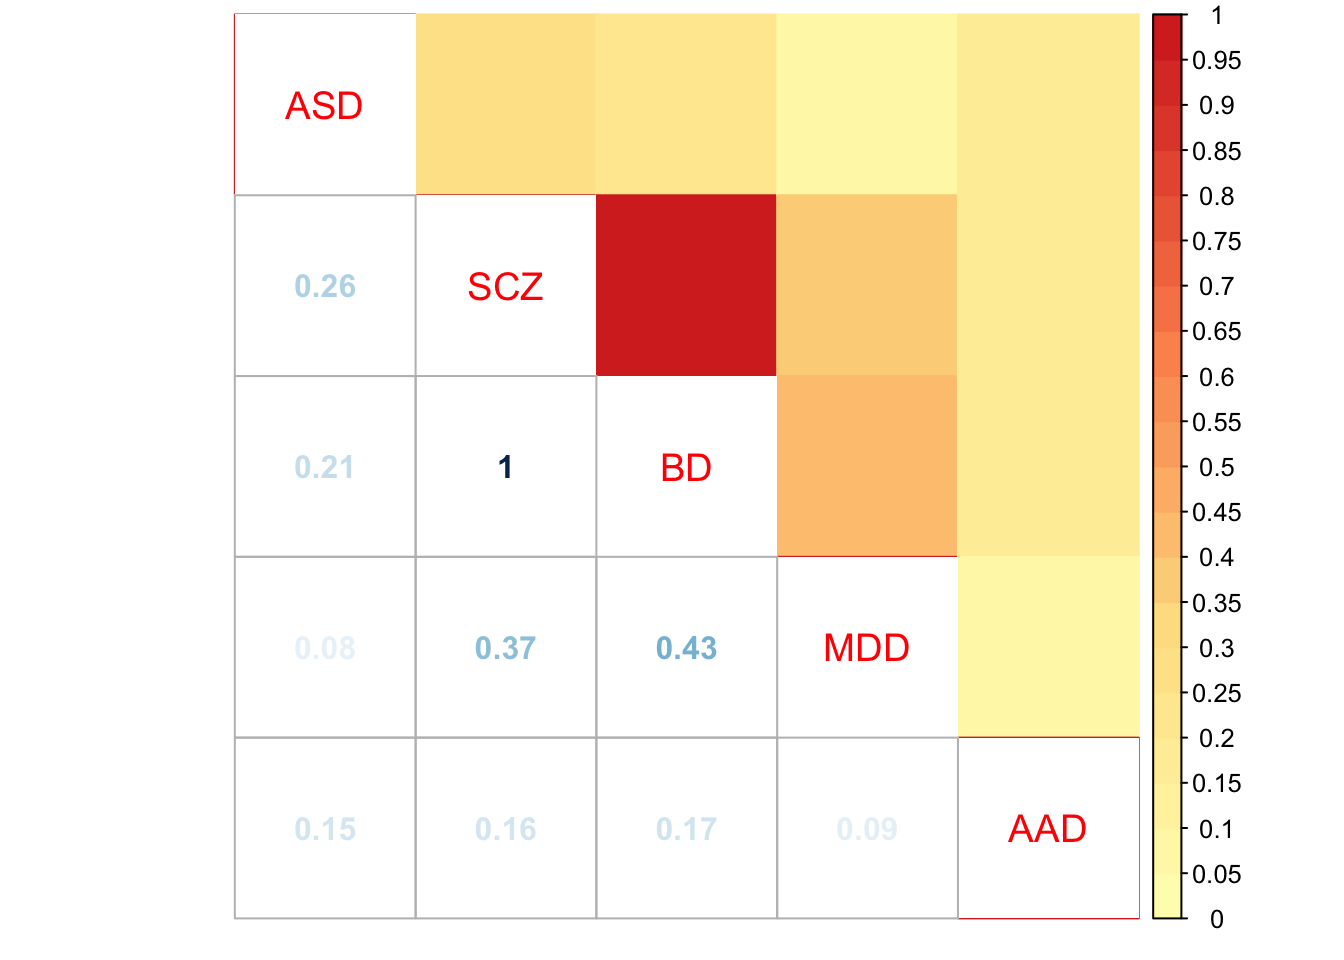
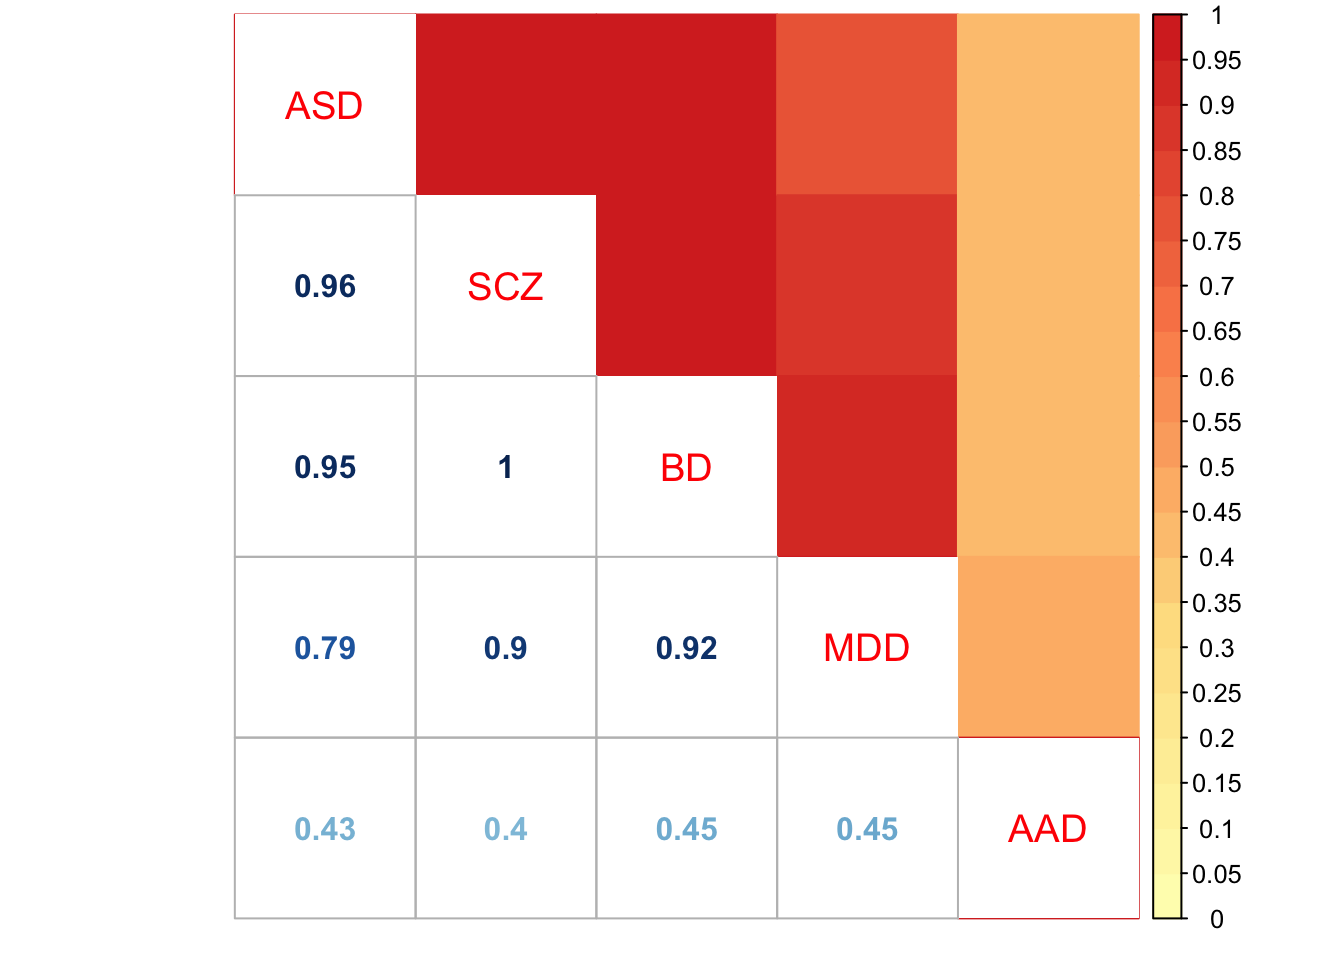
Build site.

diff --git a/docs/MashEE.html b/docs/MashEE.html
@@ -334,7 +334,7 @@ div.section {
 </div>
 
 
-<p><strong>Last updated:</strong> 2018-05-11</p>
+<p><strong>Last updated:</strong> 2018-05-12</p>
 <strong>workflowr checks:</strong> <small>(Click a bullet for more information)</small>
 <ul>
 <li>
@@ -358,7 +358,7 @@ div.section {
 </details>
 </li>
 <li>
-<p><details> <summary> <strong style="color:blue;">✔</strong> <strong>Repository version:</strong> <a href="https://github.com/zouyuxin/mash_Gandal_2018/tree/24354dbc05fcb4f5e53fa934aa0f64aa80014709" target="_blank">24354db</a> </summary></p>
+<p><details> <summary> <strong style="color:blue;">✔</strong> <strong>Repository version:</strong> <a href="https://github.com/zouyuxin/mash_Gandal_2018/tree/4c2def79fa2025d9c0ffde7ff6f7e9808d4a910c" target="_blank">4c2def7</a> </summary></p>
 Great! You are using Git for version control. Tracking code development and connecting the code version to the results is critical for reproducibility. The version displayed above was the version of the Git repository at the time these results were generated. <br><br> Note that you need to be careful to ensure that all relevant files for the analysis have been committed to Git prior to generating the results (you can use <code>wflow_publish</code> or <code>wflow_git_commit</code>). workflowr only checks the R Markdown file, but you know if there are other scripts or data files that it depends on. Below is the status of the Git repository when the results were generated:
 <pre><code>
 Ignored files:
@@ -426,6 +426,40 @@ Message
 Rmd
 </td>
 <td style="text-align:left;">
+<a href="https://github.com/zouyuxin/mash_Gandal_2018/blob/4c2def79fa2025d9c0ffde7ff6f7e9808d4a910c/analysis/MashEE.Rmd" target="_blank">4c2def7</a>
+</td>
+<td style="text-align:left;">
+zouyuxin
+</td>
+<td style="text-align:left;">
+2018-05-12
+</td>
+<td style="text-align:left;">
+wflow_publish(“analysis/MashEE.Rmd”)
+</td>
+</tr>
+<tr>
+<td style="text-align:left;">
+html
+</td>
+<td style="text-align:left;">
+<a href="https://cdn.rawgit.com/zouyuxin/mash_Gandal_2018/c74944f2ce592f8e3656ac3452f48f1a96fb16be/docs/MashEE.html" target="_blank">c74944f</a>
+</td>
+<td style="text-align:left;">
+zouyuxin
+</td>
+<td style="text-align:left;">
+2018-05-11
+</td>
+<td style="text-align:left;">
+Build site.
+</td>
+</tr>
+<tr>
+<td style="text-align:left;">
+Rmd
+</td>
+<td style="text-align:left;">
 <a href="https://github.com/zouyuxin/mash_Gandal_2018/blob/24354dbc05fcb4f5e53fa934aa0f64aa80014709/analysis/MashEE.Rmd" target="_blank">24354db</a>
 </td>
 <td style="text-align:left;">
@@ -452,7 +486,7 @@ Attaching package: &#39;mclust&#39;</code></pre>
 <pre><code>The following object is masked from &#39;package:ashr&#39;:
 
     dens</code></pre>
-<pre class="r"><code>library(flashr); library(colorRamps); library(corrplot)</code></pre>
+<pre class="r"><code>library(flashr); library(colorRamps); library(corrplot); library(ggplot2)</code></pre>
 <pre><code>corrplot 0.84 loaded</code></pre>
 <pre class="r"><code>data = readRDS(&#39;../data/results/control/CompiledData.rds&#39;)</code></pre>
 <div id="mash" class="section level2">
@@ -485,6 +519,36 @@ for(i in pve.order){
   barplot(factors[,i], main=paste0(&#39;Factor &#39;,i, &#39; pve= &#39;, round(flash_get_pve(fmodel)[i],3)), las=2, cex.names = 0.7)
 }</code></pre>
 <p><img src="figure/MashEE.Rmd/flash%20plot-1.png" width="672" style="display: block; margin: auto;" /></p>
+<details> <summary><em>Expand here to see past versions of flash plot-1.png:</em></summary>
+<table style="border-collapse:separate; border-spacing:5px;">
+<thead>
+<tr>
+<th style="text-align:left;">
+Version
+</th>
+<th style="text-align:left;">
+Author
+</th>
+<th style="text-align:left;">
+Date
+</th>
+</tr>
+</thead>
+<tbody>
+<tr>
+<td style="text-align:left;">
+<a href="https://github.com/zouyuxin/mash_Gandal_2018/blob/c74944f2ce592f8e3656ac3452f48f1a96fb16be/docs/figure/MashEE.Rmd/flash plot-1.png" target="_blank">c74944f</a>
+</td>
+<td style="text-align:left;">
+zouyuxin
+</td>
+<td style="text-align:left;">
+2018-05-11
+</td>
+</tr>
+</tbody>
+</table>
+<p></details></p>
 <pre class="r"><code>par(mfrow=c(1,1))</code></pre>
 <p><code>flash</code> on the loading:</p>
 <pre class="r"><code>loading = fmodel$EL[,1:3]
@@ -530,7 +594,7 @@ U.ed = cov_ed(mash.data, U.dd, strong)</code></pre>
 <h3>Mash model:</h3>
 <pre class="r"><code>mash.model = mash(mash.data, c(U.c, U.ed))</code></pre>
 <pre><code> - Computing 11200 x 651 likelihood matrix.
- - Likelihood calculations took 6.74 seconds.
+ - Likelihood calculations took 7.98 seconds.
  - Fitting model with 651 mixture components.</code></pre>
 <pre><code>Warning in REBayes::KWDual(A, rep(1, k), normalize(w), control = control): estimated mixing distribution has some negative values:
                consider reducing rtol</code></pre>
@@ -538,9 +602,9 @@ U.ed = cov_ed(mash.data, U.dd, strong)</code></pre>
 0.107339052191479, : Optimization step yields mixture weights that are
 either too small, or negative; weights have been corrected and renormalized
 after the optimization.</code></pre>
-<pre><code> - Model fitting took 14.94 seconds.
+<pre><code> - Model fitting took 19.68 seconds.
  - Computing posterior matrices.
- - Computation allocated took 0.58 seconds.</code></pre>
+ - Computation allocated took 0.69 seconds.</code></pre>
 </div>
 </div>
 <div id="result" class="section level2">
@@ -552,12 +616,72 @@ after the optimization.</code></pre>
 <pre class="r"><code>options(repr.plot.width=12, repr.plot.height=4)
 barplot(get_estimated_pi(mash.model), las = 2, cex.names = 0.7)</code></pre>
 <p><img src="figure/MashEE.Rmd/estimated%20weight-1.png" width="672" style="display: block; margin: auto;" /></p>
-<p>Check XX covariance matrix</p>
+<details> <summary><em>Expand here to see past versions of estimated weight-1.png:</em></summary>
+<table style="border-collapse:separate; border-spacing:5px;">
+<thead>
+<tr>
+<th style="text-align:left;">
+Version
+</th>
+<th style="text-align:left;">
+Author
+</th>
+<th style="text-align:left;">
+Date
+</th>
+</tr>
+</thead>
+<tbody>
+<tr>
+<td style="text-align:left;">
+<a href="https://github.com/zouyuxin/mash_Gandal_2018/blob/c74944f2ce592f8e3656ac3452f48f1a96fb16be/docs/figure/MashEE.Rmd/estimated weight-1.png" target="_blank">c74944f</a>
+</td>
+<td style="text-align:left;">
+zouyuxin
+</td>
+<td style="text-align:left;">
+2018-05-11
+</td>
+</tr>
+</tbody>
+</table>
+<p></details></p>
+<p>Check XX covariance matrix:</p>
 <pre class="r"><code>x           &lt;- mash.model$fitted_g$Ulist[[&quot;ED_XX&quot;]]
 colnames(x) &lt;- colnames(data$beta)
 rownames(x) &lt;- colnames(x)
 corrplot(x, method=&#39;color&#39;, cl.lim=c(-0.2,1), type=&#39;upper&#39;, addCoef.col = &quot;black&quot;, tl.col=&quot;black&quot;, tl.srt=45, col=colorRampPalette(c(&quot;blue&quot;,&quot;white&quot;,&quot;red&quot;))(200))</code></pre>
 <p><img src="figure/MashEE.Rmd/XX-1.png" width="672" style="display: block; margin: auto;" /></p>
+<details> <summary><em>Expand here to see past versions of XX-1.png:</em></summary>
+<table style="border-collapse:separate; border-spacing:5px;">
+<thead>
+<tr>
+<th style="text-align:left;">
+Version
+</th>
+<th style="text-align:left;">
+Author
+</th>
+<th style="text-align:left;">
+Date
+</th>
+</tr>
+</thead>
+<tbody>
+<tr>
+<td style="text-align:left;">
+<a href="https://github.com/zouyuxin/mash_Gandal_2018/blob/c74944f2ce592f8e3656ac3452f48f1a96fb16be/docs/figure/MashEE.Rmd/XX-1.png" target="_blank">c74944f</a>
+</td>
+<td style="text-align:left;">
+zouyuxin
+</td>
+<td style="text-align:left;">
+2018-05-11
+</td>
+</tr>
+</tbody>
+</table>
+<p></details></p>
 <pre class="r"><code>layout(matrix(c(1,2,3,4), 2, 2, byrow=TRUE))
 svd.out = svd(mash.model$fitted_g$Ulist[[&quot;ED_XX&quot;]])
 v = svd.out$v
@@ -568,17 +692,37 @@ for (j in 1:4)
   barplot(v[,j]/v[,j][which.max(abs(v[,j]))], cex.names = 0.7,
           las = 2, main = paste0(&quot;EigenVector &quot;, j, &quot; for XX&quot;))</code></pre>
 <p><img src="figure/MashEE.Rmd/XX%20pca-1.png" width="672" style="display: block; margin: auto;" /></p>
+<details> <summary><em>Expand here to see past versions of XX pca-1.png:</em></summary>
+<table style="border-collapse:separate; border-spacing:5px;">
+<thead>
+<tr>
+<th style="text-align:left;">
+Version
+</th>
+<th style="text-align:left;">
+Author
+</th>
+<th style="text-align:left;">
+Date
+</th>
+</tr>
+</thead>
+<tbody>
+<tr>
+<td style="text-align:left;">
+<a href="https://github.com/zouyuxin/mash_Gandal_2018/blob/c74944f2ce592f8e3656ac3452f48f1a96fb16be/docs/figure/MashEE.Rmd/XX pca-1.png" target="_blank">c74944f</a>
+</td>
+<td style="text-align:left;">
+zouyuxin
+</td>
+<td style="text-align:left;">
+2018-05-11
+</td>
+</tr>
+</tbody>
+</table>
+<p></details></p>
 <p>There are 4504 diferentially expressed genes.</p>
-<p>Check pairwise sharing by magnitude and sign:</p>
-<pre class="r"><code>x = get_pairwise_sharing(mash.model)
-x[x &gt; 1]    &lt;- 1
-x[x &lt; -1]   &lt;- -1
-colnames(x) &lt;- colnames(data$beta)
-rownames(x) &lt;- colnames(x)
-corrplot.mixed(x, tl.pos=&quot;d&quot;,upper=&#39;color&#39;, cl.lim=c(0,1), upper.col=colorRampPalette(rev(c(&quot;#D73027&quot;,&quot;#FC8D59&quot;,&quot;#FEE090&quot;,&quot;#FFFFBF&quot;,
-                               &quot;#E0F3F8&quot;,&quot;#91BFDB&quot;,&quot;#4575B4&quot;)))(40),
-               tl.cex=1.2)</code></pre>
-<p><img src="figure/MashEE.Rmd/unnamed-chunk-1-1.png" width="672" style="display: block; margin: auto;" /></p>
 <p>Check pairwise sharing by sign:</p>
 <pre class="r"><code>x = get_pairwise_sharing(mash.model, factor=0)
 x[x &gt; 1]    &lt;- 1
@@ -588,7 +732,106 @@ rownames(x) &lt;- colnames(x)
 corrplot.mixed(x, tl.pos=&quot;d&quot;,upper=&#39;color&#39;, cl.lim=c(0,1), upper.col=colorRampPalette(rev(c(&quot;#D73027&quot;,&quot;#FC8D59&quot;,&quot;#FEE090&quot;,&quot;#FFFFBF&quot;,
                                &quot;#E0F3F8&quot;,&quot;#91BFDB&quot;,&quot;#4575B4&quot;)))(40),
                tl.cex=1.2)</code></pre>
+<p><img src="figure/MashEE.Rmd/unnamed-chunk-1-1.png" width="672" style="display: block; margin: auto;" /></p>
+<details> <summary><em>Expand here to see past versions of unnamed-chunk-1-1.png:</em></summary>
+<table style="border-collapse:separate; border-spacing:5px;">
+<thead>
+<tr>
+<th style="text-align:left;">
+Version
+</th>
+<th style="text-align:left;">
+Author
+</th>
+<th style="text-align:left;">
+Date
+</th>
+</tr>
+</thead>
+<tbody>
+<tr>
+<td style="text-align:left;">
+<a href="https://github.com/zouyuxin/mash_Gandal_2018/blob/c74944f2ce592f8e3656ac3452f48f1a96fb16be/docs/figure/MashEE.Rmd/unnamed-chunk-1-1.png" target="_blank">c74944f</a>
+</td>
+<td style="text-align:left;">
+zouyuxin
+</td>
+<td style="text-align:left;">
+2018-05-11
+</td>
+</tr>
+</tbody>
+</table>
+<p></details></p>
+<p>Check pairwise sharing by magnitude and sign:</p>
+<pre class="r"><code>x = get_pairwise_sharing(mash.model)
+x[x &gt; 1]    &lt;- 1
+x[x &lt; -1]   &lt;- -1
+colnames(x) &lt;- colnames(data$beta)
+rownames(x) &lt;- colnames(x)
+corrplot.mixed(x, tl.pos=&quot;d&quot;,upper=&#39;color&#39;, cl.lim=c(0,1), upper.col=colorRampPalette(rev(c(&quot;#D73027&quot;,&quot;#FC8D59&quot;,&quot;#FEE090&quot;,&quot;#FFFFBF&quot;,
+                               &quot;#E0F3F8&quot;,&quot;#91BFDB&quot;,&quot;#4575B4&quot;)))(40),
+               tl.cex=1.2)</code></pre>
 <p><img src="figure/MashEE.Rmd/unnamed-chunk-2-1.png" width="672" style="display: block; margin: auto;" /></p>
+<details> <summary><em>Expand here to see past versions of unnamed-chunk-2-1.png:</em></summary>
+<table style="border-collapse:separate; border-spacing:5px;">
+<thead>
+<tr>
+<th style="text-align:left;">
+Version
+</th>
+<th style="text-align:left;">
+Author
+</th>
+<th style="text-align:left;">
+Date
+</th>
+</tr>
+</thead>
+<tbody>
+<tr>
+<td style="text-align:left;">
+<a href="https://github.com/zouyuxin/mash_Gandal_2018/blob/c74944f2ce592f8e3656ac3452f48f1a96fb16be/docs/figure/MashEE.Rmd/unnamed-chunk-2-1.png" target="_blank">c74944f</a>
+</td>
+<td style="text-align:left;">
+zouyuxin
+</td>
+<td style="text-align:left;">
+2018-05-11
+</td>
+</tr>
+</tbody>
+</table>
+<p></details></p>
+<ul>
+<li>Effects compare with SCZ</li>
+</ul>
+<pre class="r"><code>CompareSCZ = diag(5)
+CompareSCZ[,2] = -1
+CompareSCZ = CompareSCZ[-2,]
+row.names(CompareSCZ) = colnames(data$beta)[-2]</code></pre>
+<pre class="r"><code>mash.model.SCZ = mash.model
+mash.model.SCZ$result = mash_compute_posterior_matrices(mash.model, mash.data, A=CompareSCZ, algorithm.version = &#39;R&#39;)</code></pre>
+<p>Check pairwise sharing by sign:</p>
+<pre class="r"><code>x = get_pairwise_sharing(mash.model.SCZ, factor=0)
+x[x &gt; 1]    &lt;- 1
+x[x &lt; -1]   &lt;- -1
+colnames(x) &lt;- row.names(CompareSCZ)
+rownames(x) &lt;- colnames(x)
+corrplot.mixed(x, tl.pos=&quot;d&quot;,upper=&#39;color&#39;, cl.lim=c(0,1), upper.col=colorRampPalette(rev(c(&quot;#D73027&quot;,&quot;#FC8D59&quot;,&quot;#FEE090&quot;,&quot;#FFFFBF&quot;,
+                               &quot;#E0F3F8&quot;,&quot;#91BFDB&quot;,&quot;#4575B4&quot;)))(40),
+               tl.cex=1.2)</code></pre>
+<p><img src="figure/MashEE.Rmd/unnamed-chunk-5-1.png" width="672" style="display: block; margin: auto;" /></p>
+<p>Check pairwise sharing by magnitude and sign:</p>
+<pre class="r"><code>x = get_pairwise_sharing(mash.model.SCZ)
+x[x &gt; 1]    &lt;- 1
+x[x &lt; -1]   &lt;- -1
+colnames(x) &lt;- row.names(CompareSCZ)
+rownames(x) &lt;- colnames(x)
+corrplot.mixed(x, tl.pos=&quot;d&quot;,upper=&#39;color&#39;, cl.lim=c(0,1), upper.col=colorRampPalette(rev(c(&quot;#D73027&quot;,&quot;#FC8D59&quot;,&quot;#FEE090&quot;,&quot;#FFFFBF&quot;,
+                               &quot;#E0F3F8&quot;,&quot;#91BFDB&quot;,&quot;#4575B4&quot;)))(40),
+               tl.cex=1.2)</code></pre>
+<p><img src="figure/MashEE.Rmd/unnamed-chunk-6-1.png" width="672" style="display: block; margin: auto;" /></p>
 </div>
 <div id="session-information" class="section level2">
 <h2>Session information</h2>
@@ -608,8 +851,9 @@ attached base packages:
 [1] stats     graphics  grDevices utils     datasets  methods   base     
 
 other attached packages:
-[1] corrplot_0.84  colorRamps_2.3 flashr_0.5-6   plyr_1.8.4    
-[5] mclust_5.4     mashr_0.2-6    ashr_2.2-7     limma_3.34.9  
+[1] ggplot2_2.2.1  corrplot_0.84  colorRamps_2.3 flashr_0.5-6  
+[5] plyr_1.8.4     mclust_5.4     mashr_0.2-6    ashr_2.2-7    
+[9] limma_3.34.9  
 
 loaded via a namespace (and not attached):
  [1] Rcpp_0.12.16             pillar_1.2.2            
@@ -626,17 +870,16 @@ loaded via a namespace (and not attached):
 [23] knitr_1.20               REBayes_1.3             
 [25] rprojroot_1.3-2          grid_3.4.4              
 [27] rmarkdown_1.9            rmeta_3.0               
-[29] ggplot2_2.2.1            magrittr_1.5            
-[31] whisker_0.3-2            scales_0.5.0            
-[33] backports_1.1.2          codetools_0.2-15        
-[35] htmltools_0.3.6          MASS_7.3-50             
-[37] assertthat_0.2.0         softImpute_1.4          
-[39] colorspace_1.3-2         stringi_1.2.2           
-[41] Rmosek_8.0.69            lazyeval_0.2.1          
-[43] munsell_0.4.3            doParallel_1.0.11       
-[45] pscl_1.5.2               truncnorm_1.0-8         
-[47] SQUAREM_2017.10-1        ExtremeDeconvolution_1.3
-[49] R.oo_1.22.0             </code></pre>
+[29] magrittr_1.5             whisker_0.3-2           
+[31] scales_0.5.0             backports_1.1.2         
+[33] codetools_0.2-15         htmltools_0.3.6         
+[35] MASS_7.3-50              assertthat_0.2.0        
+[37] softImpute_1.4           colorspace_1.3-2        
+[39] stringi_1.2.2            Rmosek_8.0.69           
+[41] lazyeval_0.2.1           munsell_0.4.3           
+[43] doParallel_1.0.11        pscl_1.5.2              
+[45] truncnorm_1.0-8          SQUAREM_2017.10-1       
+[47] ExtremeDeconvolution_1.3 R.oo_1.22.0             </code></pre>
 </div>
 
 <!-- Adjust MathJax settings so that all math formulae are shown using
